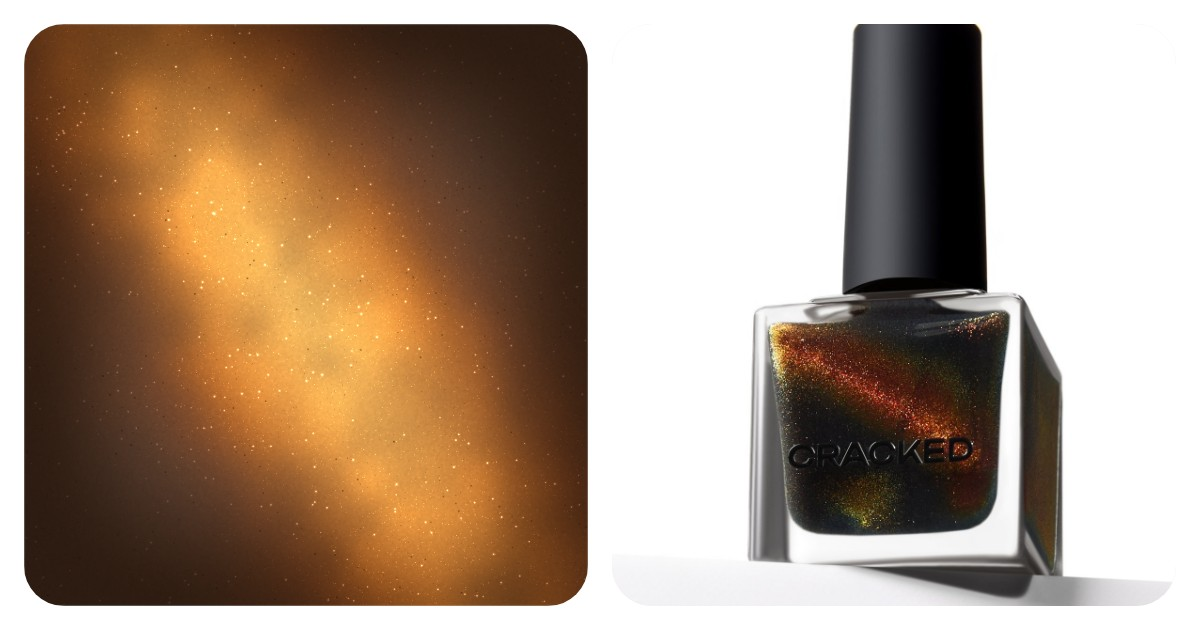
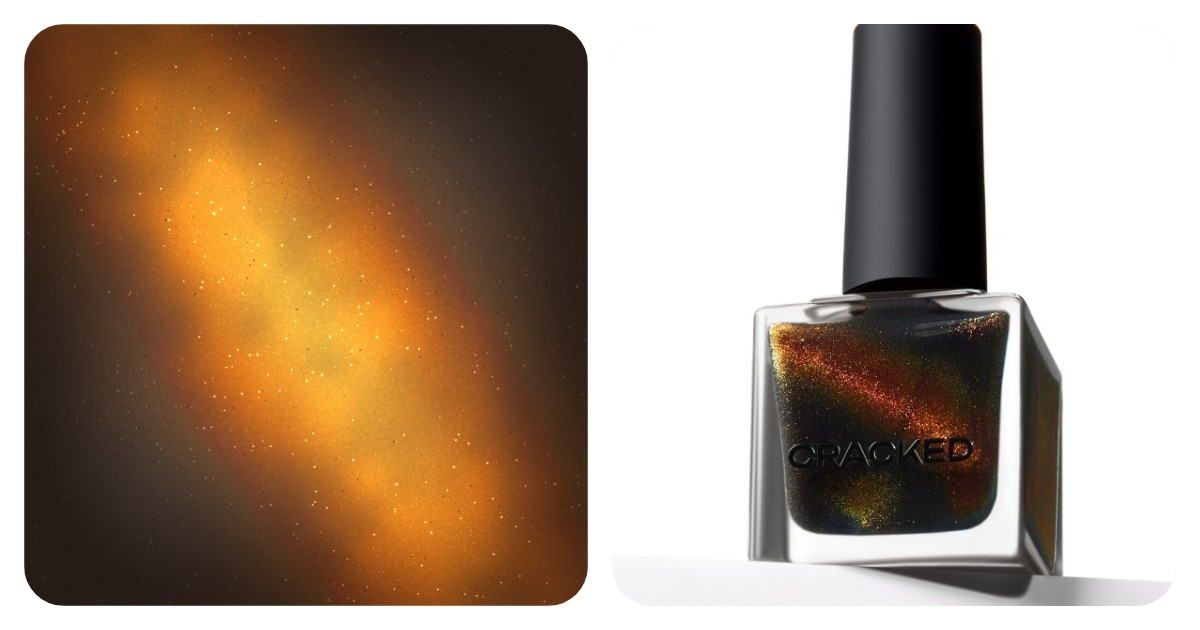
Match the new swatches to their product photos
Rechecked each new polish against its product description and photos:
Lahar's flash is now red-orange, Hibernaty gets pink shimmer, and
Sapphire Morpho, Balinese Swallowtail, Yotsuya Kaidan, Cranberry Iced
Tea, Fuyu, Taro Milk Tea and others are retuned. Manchineel Tree rests
greener and warms to the mustard orange of its sun-activated photos.

Claude-Session: https://claude.ai/code/session_01S2TzcL9C4b85zGLFVUsJZn

Changed region(s): [[0.0925, 0.181, 0.4008, 0.9048]]

diff --git a/js/polishes.js b/js/polishes.js
@@ -110,7 +110,7 @@ const POLISHES = [
     effect: "magnetic",
     tone: "bold",
     // Black base with a purple-pink magnetic flash that pulls into a bright magenta-violet line (from the product page and order photo)
-    colors: ["#120a16", "#f27ae0", "#d64ac8", "#9a34c0", "#5a2080"],
+    colors: ["#120a16", "#e48af4", "#c454dc", "#9a34c0", "#5a2080"],
     shadow: "#060308",
     url: "https://www.mooncat.com/products/misa-misa",
     photos: ["images/mooncat-misa-misa/1.jpg", "images/mooncat-misa-misa/2.jpg", "images/mooncat-misa-misa/3.jpg", "images/mooncat-misa-misa/4.jpg"], // saved from the product page
@@ -123,9 +123,9 @@ const POLISHES = [
     effects: ["magnetic", "multichrome"],
     tone: "bold",
     // Purple base with blue shimmer; multichrome magnetic flash shifting pink to red-orange (from the product page and order photo)
-    colors: ["#3c1468", "#ffa040", "#ff5a2a", "#f2365e", "#d43aa8", "#7a3ae0"],
+    colors: ["#2a1270", "#ff8a40", "#ff4a3a", "#e83a8a", "#a040e0", "#4a5aff"],
     shimmer: "#4a62ff",
-    shadow: "#22083e",
+    shadow: "#160840",
     grad: [.6, .6],            // hotter orange in the middle, pink to violet toward the edges
     url: "https://www.mooncat.com/products/nyarrian-nights",
     photos: ["images/mooncat-nyarrian-nights/1.jpg", "images/mooncat-nyarrian-nights/2.jpg", "images/mooncat-nyarrian-nights/3.jpg", "images/mooncat-nyarrian-nights/4.jpg"], // saved from the product page
@@ -138,8 +138,8 @@ const POLISHES = [
     effects: ["magnetic", "multichrome"],
     tone: "bold",
     // ANLAC butterfly collection: purple base with fine red-orange-green magnetic shimmer (from the product page and photos)
-    colors: ["#3a167a", "#d49aff", "#b066f0", "#d86a8a", "#c89a50", "#7ab860"], // purple flash with warm and green edges
-    shadow: "#160830",
+    colors: ["#4c1892", "#e2a4ff", "#c072f2", "#e07a8a", "#c89a50", "#7ab860"], // purple flash with warm and green edges
+    shadow: "#280c5a",
     url: "https://awesomenailpolish.com/products/great-purple-emperor",
     photos: ["images/anp-great-purple-emperor/1.jpg", "images/anp-great-purple-emperor/2.jpg", "images/anp-great-purple-emperor/3.jpg", "images/anp-great-purple-emperor/4.jpg"], // saved from the product page
   },
@@ -149,9 +149,9 @@ const POLISHES = [
     brand: "Awesome Nail Polish",
     effect: "magnetic",
     tone: "bold",
-    // ANLAC butterfly collection: blue base with fine blue-purple magnetic shimmer (from the product page and order photo)
-    colors: ["#0e2a78", "#7ab8ff", "#4a7cf0", "#5a50d8"],
-    shadow: "#06143e",
+    // ANLAC butterfly collection: blue base with fine blue-purple magnetic shimmer that reads teal-cyan on the nail (from the product page and photos)
+    colors: ["#0e4088", "#6ad8f4", "#34a8e2", "#4a7ae0"],
+    shadow: "#062048",
     url: "https://awesomenailpolish.com/products/sapphire-morpho",
     photos: ["images/anp-sapphire-morpho/1.jpg", "images/anp-sapphire-morpho/2.jpg", "images/anp-sapphire-morpho/3.jpg", "images/anp-sapphire-morpho/4.jpg"], // saved from the product page
   },
@@ -162,9 +162,9 @@ const POLISHES = [
     effect: "magnetic",
     effects: ["magnetic", "multichrome"],
     tone: "bold",
-    // ANLAC butterfly collection: purple base with fine lime-green to blue magnetic shimmer (from the product page and order photo)
-    colors: ["#4a1c6c", "#c8f05a", "#7ee08a", "#4ab4d8", "#4a6ad0"],
-    shadow: "#260c3c",
+    // ANLAC butterfly collection: plum purple base with fine lime-green magnetic shimmer and a hint of blue at the edges (from the product page and photos)
+    colors: ["#5c2c50", "#dce494", "#bccc6a", "#8eac62", "#6a8a92"],
+    shadow: "#34142e",
     url: "https://awesomenailpolish.com/products/balinese-swallowtail",
     photos: ["images/anp-balinese-swallowtail/1.jpg", "images/anp-balinese-swallowtail/2.jpg", "images/anp-balinese-swallowtail/3.jpg", "images/anp-balinese-swallowtail/4.jpg"], // saved from the product page
   },
@@ -175,9 +175,9 @@ const POLISHES = [
     effect: "sheermag",
     effects: ["sheer", "magnetic"],
     tone: "bold",
-    // Semi-sheer lime with pink, orange and gold micro flakes and a silver magnetic shimmer that reads green over the lime (from the product page and order photo)
-    colors: ["#b4c048", "#f2ffd0", "#d8f0a0", "#c4d878"],
-    shadow: "#7a8a28",
+    // Semi-sheer olive lime with pink, orange and gold micro flakes; the magnetic shimmer flashes pink at its core and green at the sides (from the product page and photos)
+    colors: ["#8c9c48", "#f4b4dc", "#dc8ec8", "#c8e0a0", "#a4bc6c"],
+    shadow: "#5a6a28",
     flakes: ["#ff9ac0", "#ffb060", "#f2d060"],
     sparkle: { density: 3, floor: .3, size: 1.1, colors: ["#ffffff", "#ff9ac0", "#ffb060", "#f2d060"], mix: .7 },
     url: "https://awesomenailpolish.com/products/yotsuya-kaidan",
@@ -191,8 +191,8 @@ const POLISHES = [
     effects: ["sheer", "magnetic"],
     tone: "neutral",
     // Sheer peach with orange, gold and green shimmer and a pale yellow magnetic flash (from the product page and order photo)
-    colors: ["#e8b4a0", "#fff4c0", "#f8e0a0", "#f0c890"],
-    shadow: "#c08c7c",
+    colors: ["#d8a888", "#f8cc78", "#f0a254", "#e6c6a0"],
+    shadow: "#b08068",
     sparkle: { density: 2.5, floor: .3, colors: ["#ffffff", "#ffb060", "#f2d060", "#a8e080"], mix: .7 },
     url: "https://awesomenailpolish.com/products/peachy",
     photos: ["images/anp-peachy/1.jpg", "images/anp-peachy/2.jpg", "images/anp-peachy/3.jpg", "images/anp-peachy/4.jpg"], // saved from the product page
@@ -204,9 +204,9 @@ const POLISHES = [
     effect: "sheermag",
     effects: ["sheer", "magnetic"],
     tone: "bold",
-    // Semi-sheer berry pink with a golden magnetic shimmer (from the product page and order photo)
-    colors: ["#b8204a", "#ffd870", "#f4a850", "#e07048"],
-    shadow: "#6e0c28",
+    // Semi-sheer berry red with a golden magnetic shimmer that reads orange on the nail (from the product page and photos)
+    colors: ["#c82c40", "#ffb462", "#ff8a3a", "#f06040"],
+    shadow: "#8a1a2a",
     url: "https://awesomenailpolish.com/products/cranberry-iced-tea",
     photos: ["images/anp-cranberry-iced-tea/1.jpg", "images/anp-cranberry-iced-tea/2.jpg", "images/anp-cranberry-iced-tea/3.jpg", "images/anp-cranberry-iced-tea/4.jpg"], // saved from the product page
   },
@@ -217,9 +217,9 @@ const POLISHES = [
     effect: "sheermag",
     effects: ["sheer", "magnetic"],
     tone: "neutral",
-    // "Winter": pale pink with a silky blue-purple magnetic shimmer (from the product page and order photo)
-    colors: ["#e2c4d0", "#d4d0ff", "#b4b0f4", "#c8b4e8"],
-    shadow: "#b498b0",
+    // "Winter": pale pink-lilac with a silky blue-purple magnetic shimmer (from the product page and photos)
+    colors: ["#c8a8c2", "#d0c8ff", "#aea6f2", "#e2bce2"],
+    shadow: "#987890",
     url: "https://awesomenailpolish.com/products/fuyu",
     photos: ["images/anp-fuyu/1.jpg", "images/anp-fuyu/2.jpg", "images/anp-fuyu/3.jpg", "images/anp-fuyu/4.jpg"], // saved from the product page
   },
@@ -230,9 +230,9 @@ const POLISHES = [
     effect: "magnetic",
     effects: ["magnetic", "shimmer"],
     tone: "bold",
-    // Ash grey with a hint of purple and a copper-to-gold magnetic shift (from the product page and order photo)
-    colors: ["#4a4450", "#f4c870", "#e0a050", "#c07040", "#8a5a6a"],
-    shadow: "#26222c",
+    // Ash grey with a hint of purple; the magnetic flash reads red-orange to copper in the photos (from the product page and photos)
+    colors: ["#5e5c66", "#ff8a48", "#f45a2c", "#d23c2a", "#8a4652"],
+    shadow: "#36343c",
     url: "https://crackedpolish.com/products/lahar",
     photos: ["images/cracked-lahar/1.jpg", "images/cracked-lahar/2.jpg", "images/cracked-lahar/3.jpg", "images/cracked-lahar/4.jpg"], // saved from the product page
   },
@@ -244,8 +244,8 @@ const POLISHES = [
     effects: ["sheer", "magnetic"],
     tone: "bold",
     clear: true,               // a magnetic topper: layered over another polish, mostly its flash shows
-    // Fiery orange magnetic topper with a soft gold shift and flickers of black speckle (from the product page and order photo)
-    colors: ["#3a2418", "#ffc060", "#ff8a2a", "#e05a1a"],
+    // Fiery orange magnetic topper with a soft gold shift, edging yellow-green at the sides, with black speckle (from the product page and photos)
+    colors: ["#2e2420", "#ffc040", "#ff8418", "#f05e12", "#c8b030"],
     shadow: "#1a0e08",
     sparkle: { density: 1.5, dark: .3 },
     url: "https://crackedpolish.com/products/scorchy",
@@ -259,9 +259,10 @@ const POLISHES = [
     effects: ["sheer", "magnetic"],
     tone: "bold",
     clear: true,               // a magnetic topper: layered over another polish, mostly its flash shows
-    // Bronze magnetic topper; reviewers describe a warm pinky rose-gold shift (from the product page and order photo)
-    colors: ["#3a2a24", "#f4c09a", "#d48a6a", "#b0604a"],
-    shadow: "#1c120e",
+    // Bronze magnetic topper with pink shimmer: a rose-pink to copper flash, sheer mauve-brown over a bare nail (from the product page and photos)
+    colors: ["#4a3a3e", "#ffc8bc", "#f496ae", "#e08a80", "#c07a52"],
+    shadow: "#241a1c",
+    sparkle: { density: 2.5, floor: .3, colors: ["#ffd0dc", "#ff9ec0", "#f0b090"], mix: .8 }, // pink shimmer through the sheer base
     url: "https://crackedpolish.com/products/hibernaty",
     photos: ["images/cracked-hibernaty/1.jpg", "images/cracked-hibernaty/2.jpg", "images/cracked-hibernaty/3.jpg", "images/cracked-hibernaty/4.jpg"], // saved from the product page
   },
@@ -549,8 +550,8 @@ const POLISHES = [
     effects: ["solar", "shimmer"],
     tone: "bold",
     // Solar (UV-activated): neon green indoors, warming toward orange in sunlight, with orange shimmer (from the product page and photos)
-    colors: ["#b4ee2a", "#f2a83a"], // [indoors, in sunlight]
-    thermal: { rest: .3 },     // mostly green at rest, like it looks indoors
+    colors: ["#b4ee2a", "#e8a820"], // [indoors, in sunlight]
+    thermal: { rest: .15 }, // mostly green at rest, like it looks indoors
     shimmer: "#ffa64a",
     url: "https://www.mooncat.com/products/manchineel-tree",
     photos: ["images/mooncat-manchineel-tree/1.jpg", "images/mooncat-manchineel-tree/2.jpg", "images/mooncat-manchineel-tree/3.jpg", "images/mooncat-manchineel-tree/4.jpg"], // saved from the product page
@@ -608,7 +609,7 @@ const POLISHES = [
     effects: ["creme"],
     tone: "neutral",
     // Deep midnight blue creme (from the product page and order photo)
-    colors: ["#141c3c"],
+    colors: ["#1a2656"],
     url: "https://www.mooncat.com/products/into-the-abyss",
     photos: ["images/mooncat-into-the-abyss/1.jpg", "images/mooncat-into-the-abyss/2.jpg", "images/mooncat-into-the-abyss/3.jpg", "images/mooncat-into-the-abyss/4.jpg"], // saved from the product page
   },
@@ -620,7 +621,7 @@ const POLISHES = [
     effects: ["creme"],
     tone: "neutral",
     // Deep brown creme from the Tale of 5 Lacquers set (from the product page and photos)
-    colors: ["#33201b"],
+    colors: ["#2c1c19"],
     url: "https://www.mooncat.com/products/kafkaesque",
     photos: ["images/mooncat-kafkaesque/1.jpg", "images/mooncat-kafkaesque/2.jpg", "images/mooncat-kafkaesque/3.jpg", "images/mooncat-kafkaesque/4.jpg"], // saved from the product page
   },
@@ -650,8 +651,8 @@ const POLISHES = [
     effect: "sheer",
     effects: ["sheer"],
     tone: "neutral",
-    // Buildable, milky lavender grey jelly (from the product description and order photo)
-    colors: ["#a596bc"],
+    // Buildable, milky lavender grey jelly that reads mauve on the nail (from the product description and photos)
+    colors: ["#bc9cb8"],
     url: "https://crackedpolish.com/products/taro-milk-tea",
     photos: ["images/cracked-taro-milk-tea/1.jpg", "images/cracked-taro-milk-tea/2.jpg", "images/cracked-taro-milk-tea/3.jpg", "images/cracked-taro-milk-tea/4.jpg"], // saved from the product page
   },
